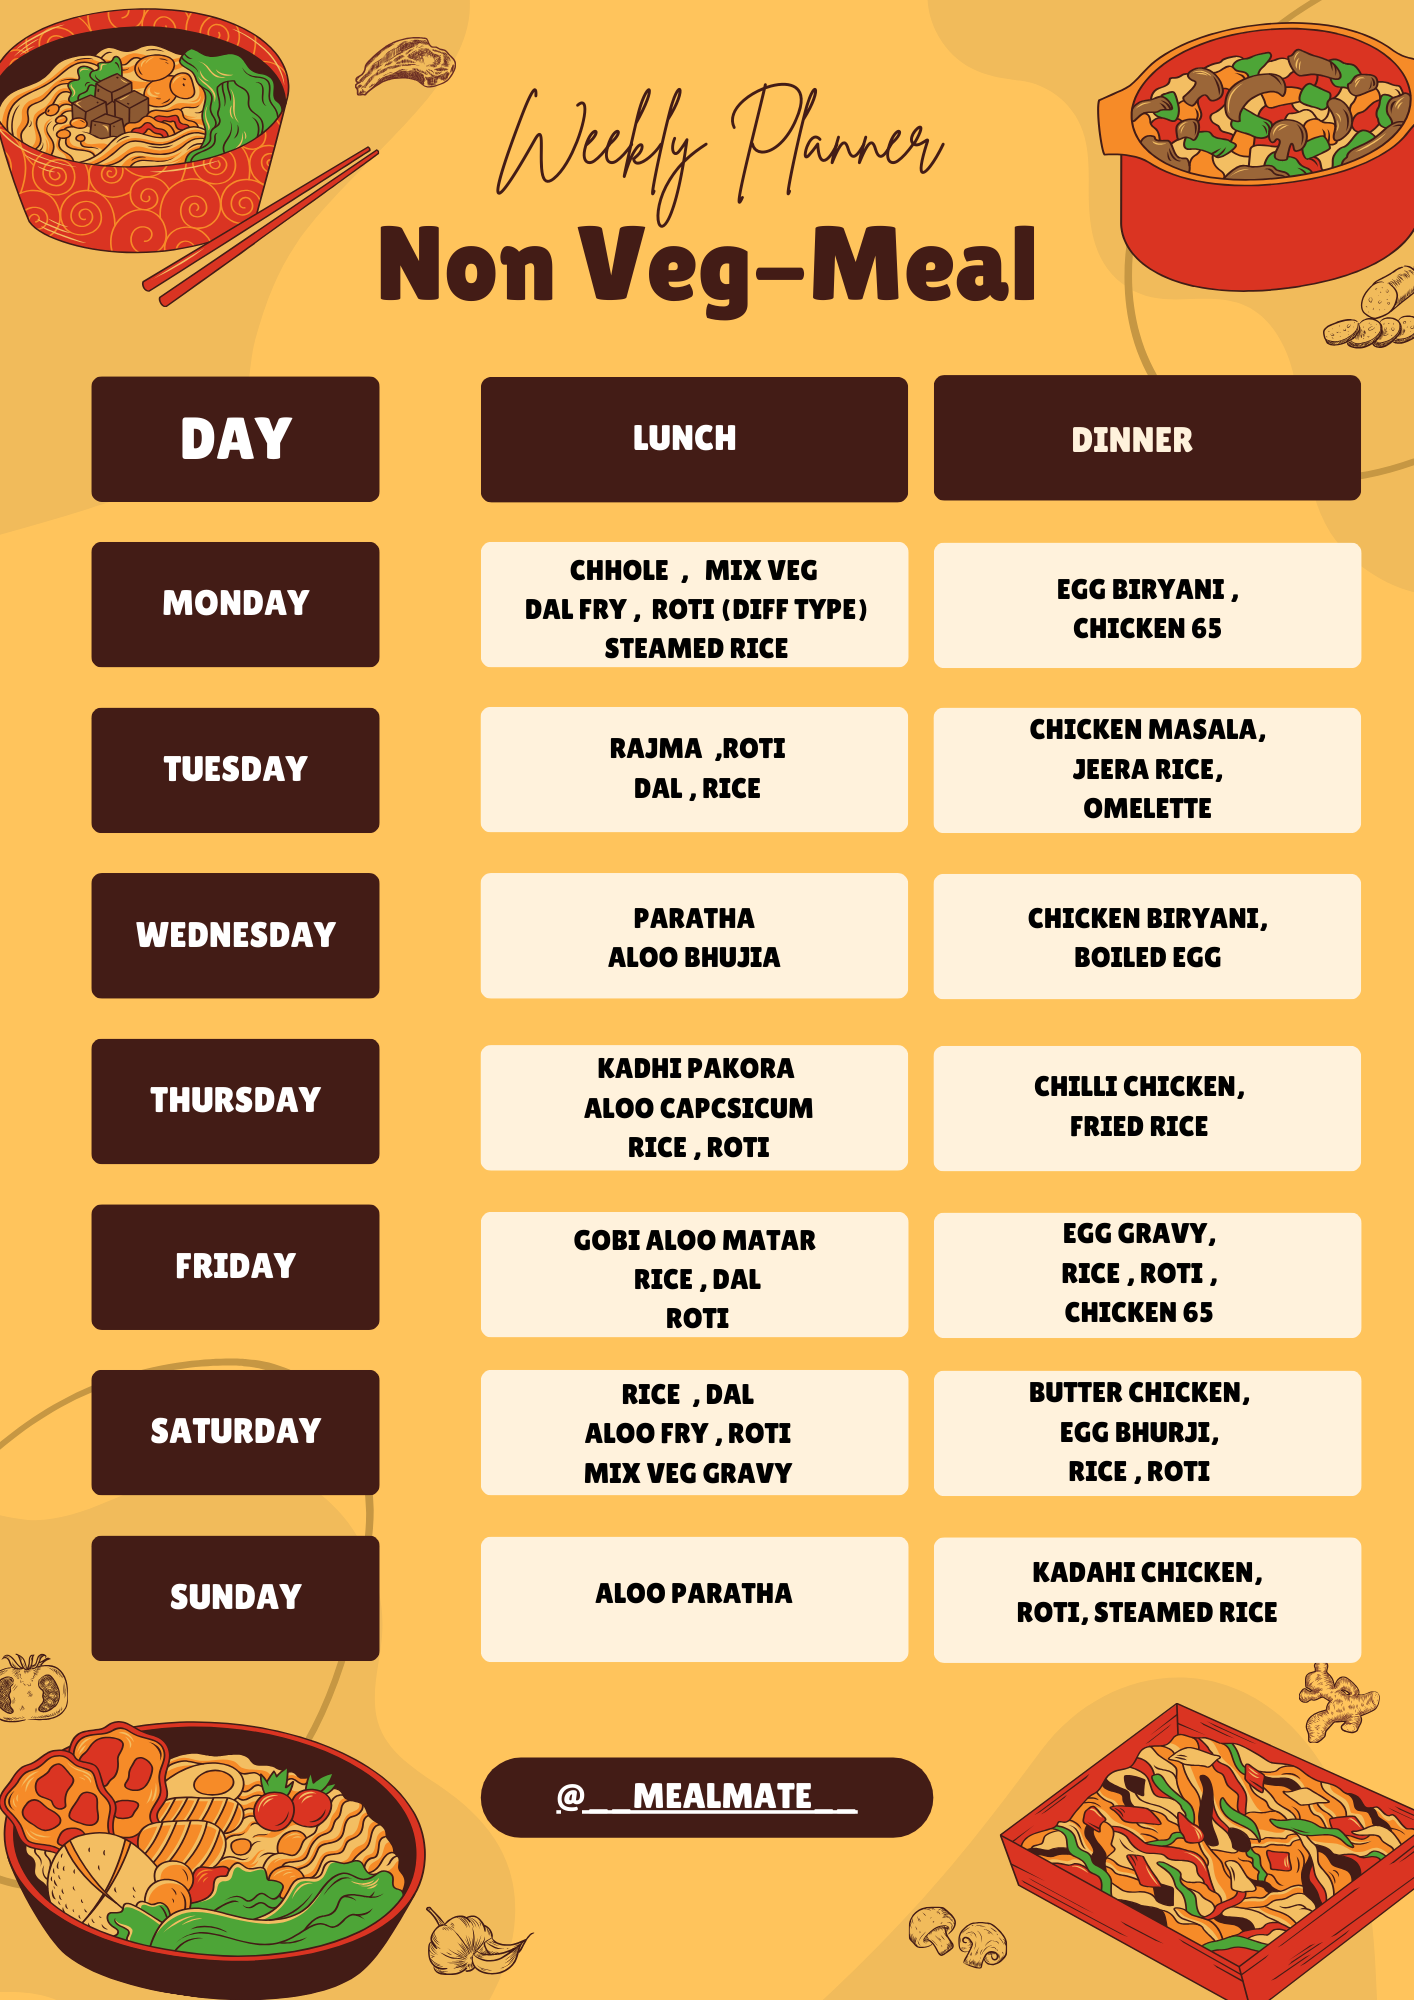
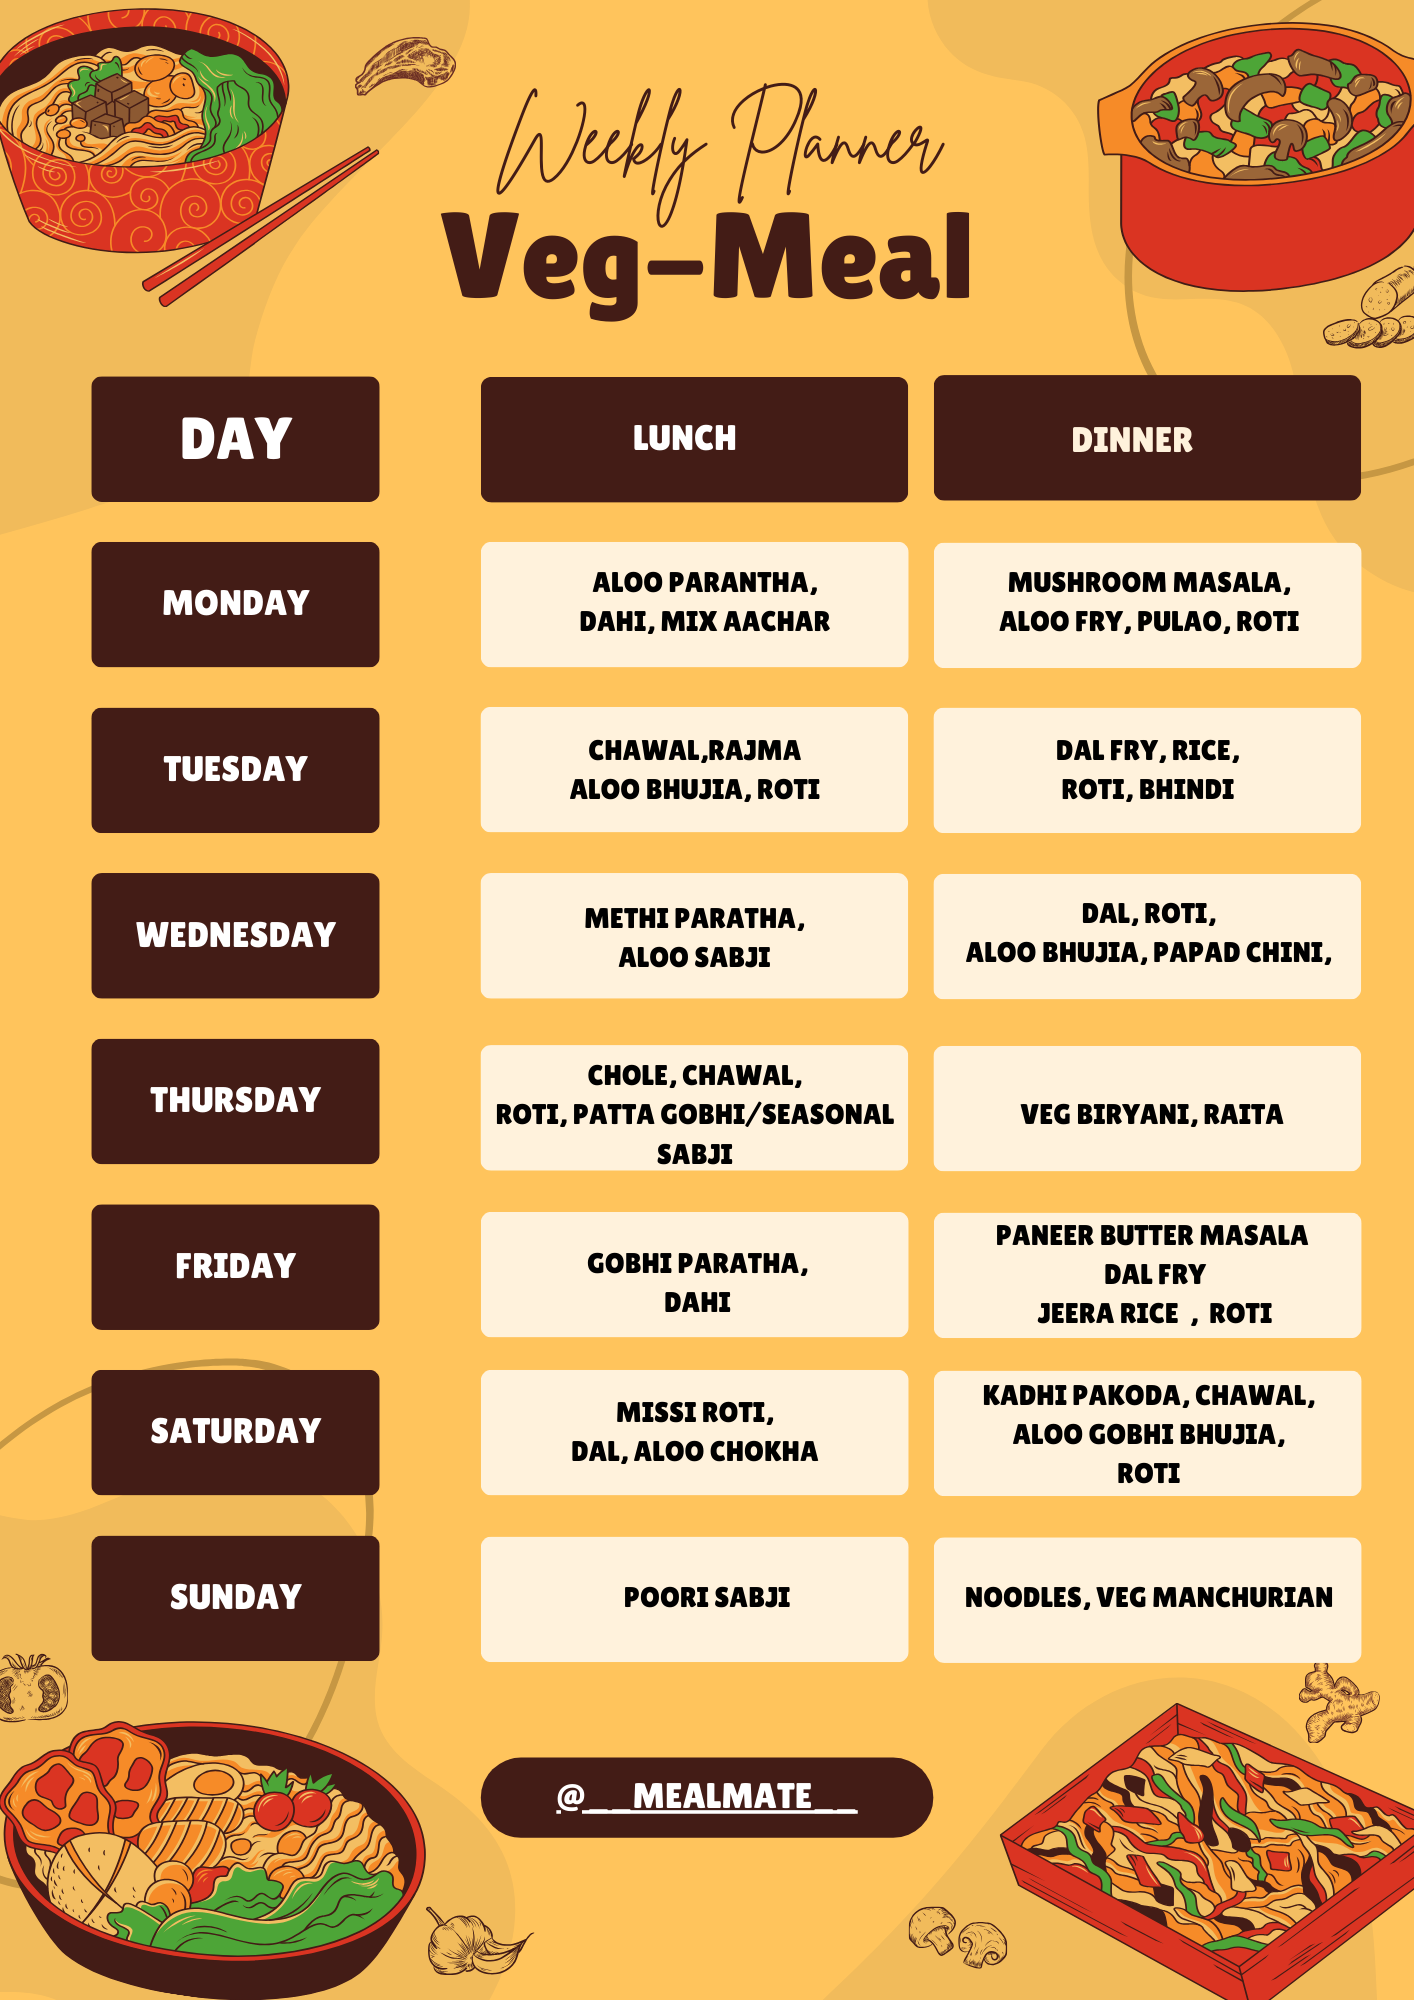
small changes

diff --git a/src/pages/Plans.jsx b/src/pages/Plans.jsx
@@ -4,9 +4,10 @@ import Wrapper from "../assets/wrappers/Plans";
 const Plans = () => {
   return <Wrapper>
     <h1>OUR PLANS</h1>
-    <h2>FOR SUBSCRIPTIONS</h2>
+   
     <div className="row-plan">
       <div>
+      <h2>FOR SUBSCRIPTIONS</h2>
         <h3>Basic veg meal</h3>
         <h4>₹ 65/meal</h4>
         <p>One month plan</p>
@@ -14,23 +15,9 @@ const Plans = () => {
         <p>Two time basis - ₹3900</p>
       </div>
       <div>
-        <h3>Basic non-veg meal</h3>
-        <h4>₹ 80/meal</h4>
-        <h4 style={{color:'var(--red)'}}>NOTE:</h4>
-        <p>★ Non-veg is available for dinner only.</p>
-        <p>★ Non-veg will not be delivered on Tuesday, Thursday,<br/> Saturday and on festival days</p>
-      </div>
-      
-    </div>
-    <h2>FOR NON-SUBSCRIPTIONS</h2>
-    <div className="row-plan">
-        <div>
+          <h2>FOR NON-SUBSCRIPTIONS</h2>
           <h3>Basic veg meal</h3>
           <h4>₹ 80/meal</h4>
-        </div>
-        <div>
-          <h3>Basic non-veg meal</h3>
-          <h4>₹ 95/meal</h4>
         </div>
     </div>
   </Wrapper>;

diff --git a/src/pages/Menu.jsx b/src/pages/Menu.jsx
@@ -1,19 +1,22 @@
 import React from "react";
 import veg from "../assets/images/1.png"
-import nonveg from "../assets/images/2.png"
+import veg2 from "../assets/images/2.png"
 import styled from "styled-components";
 import cut from "../assets/images/cook3.png"
 
 const Menu = () => {
   return <Wrapper>
-    <div><img src={veg} alt="" /></div>
-    <div><img src={nonveg} alt="" /></div>
+    <div>
+      <h3>WEEK - 1</h3>
+      <img src={veg} alt="Week 1" /></div>
+<div> <h3>WEEK - 2</h3>
+  <img src={veg2} alt="Week 2" /></div>
+   
     <div style={{backgroundColor:'var(--light-bg'}}>
     <ul>
       <h3 style={{textAlign:'left'}}>Note:</h3>
         <li>Sweets also available in the meal - 5/per meal</li>
-        <li>The menu shows what food we'll have during the first week, just to give you an idea.</li>
-        <li>We also offer a complete non-vegetarian plan, with non-veg options available for both lunch and dinner.</li>
+        <li>The menu shows what food we'll have during the first and second week, just to give you an idea.</li>
       </ul>
     </div>
     <div>
